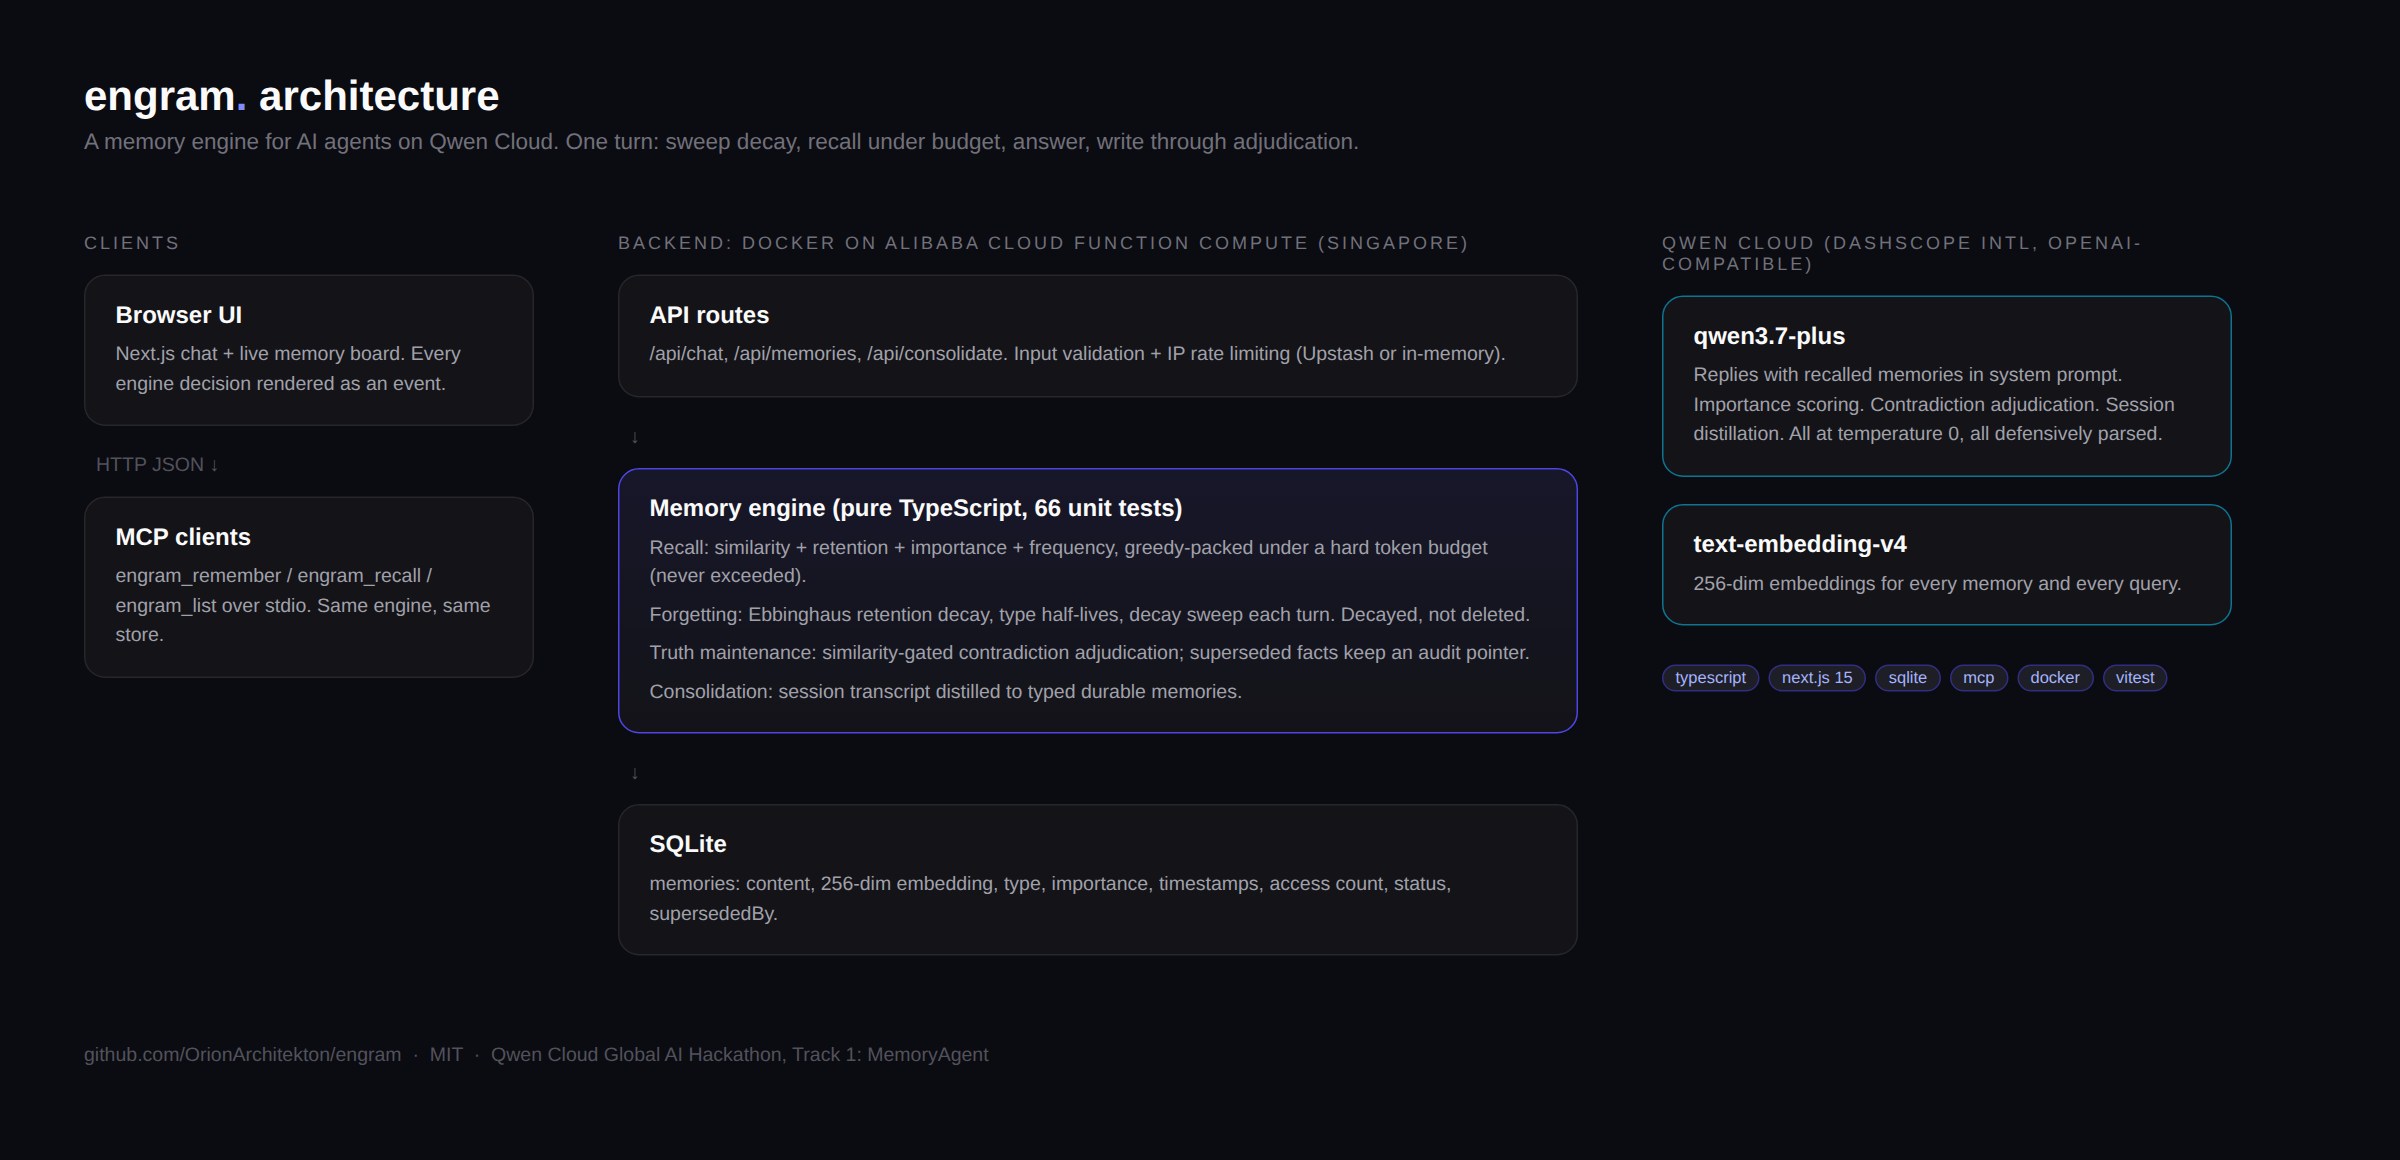
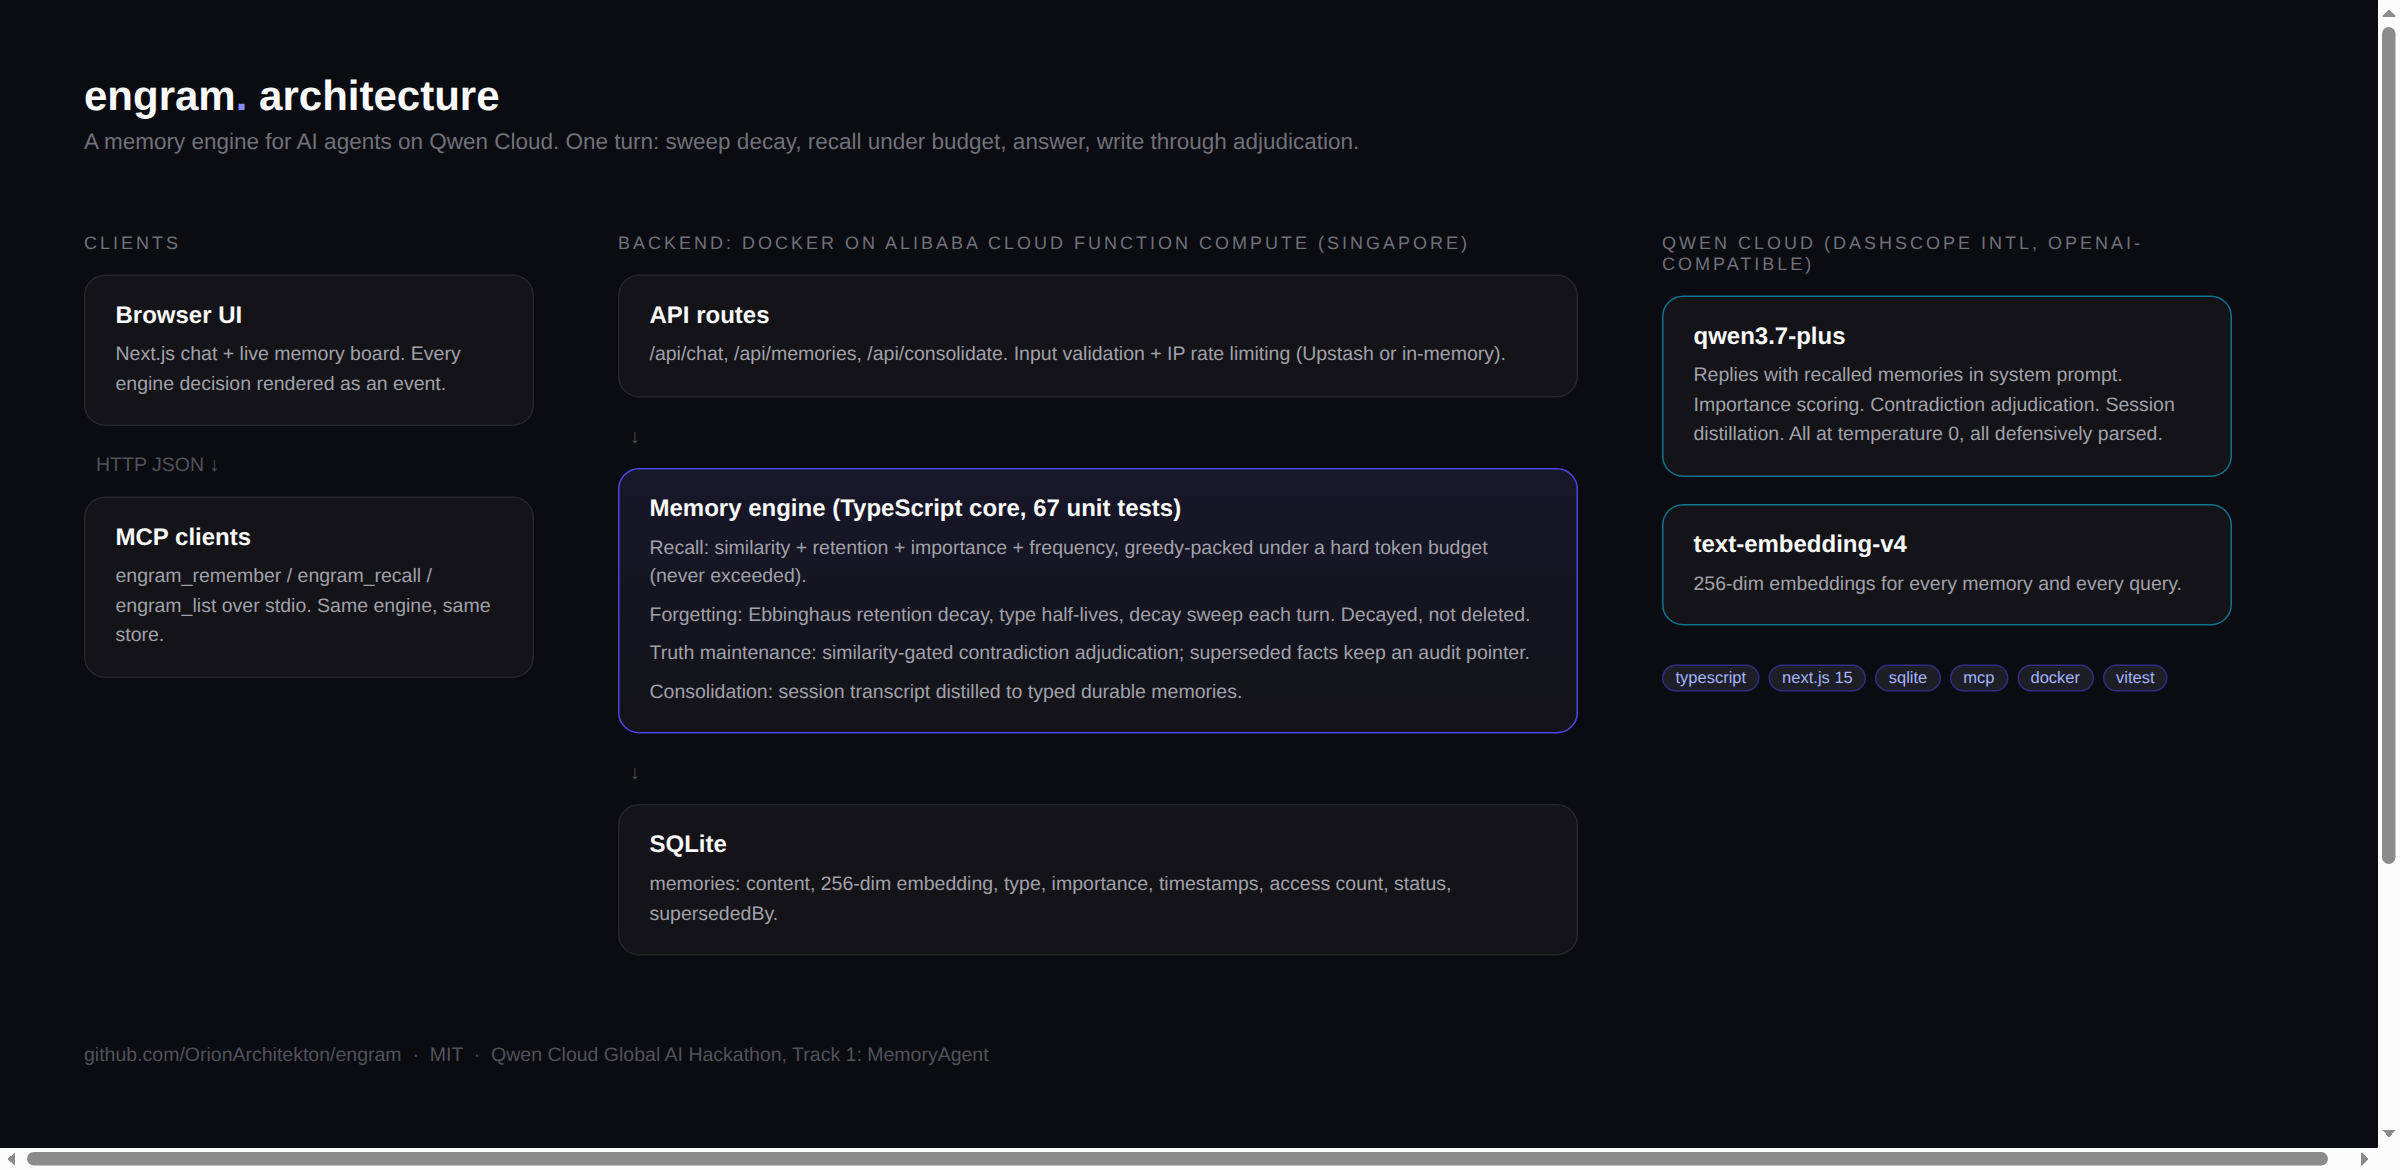
fix: adversarial review findings
Fix adjudication prompt old/new argument order; gate consolidation drafts
on the importance threshold; lower conflict similarity gate to 0.45
(Denver/San Diego pair verified live: recalled -> superseded -> stored);
add cross-session recall unit test (67 tests); real MCP stdio round-trip
proof artifact; scope wording in README/spec to match implementation.

diff --git a/scripts/mcp-roundtrip.ts b/scripts/mcp-roundtrip.ts
@@ -1,0 +1,45 @@
+// Real MCP round-trip proof: spawns the actual stdio server (mcp/server.ts),
+// calls engram_remember then engram_recall then engram_list through the MCP
+// protocol, and prints the transcript. Output is saved under docs/submission/.
+import { Client } from "@modelcontextprotocol/sdk/client/index.js";
+import { StdioClientTransport } from "@modelcontextprotocol/sdk/client/stdio.js";
+
+async function main() {
+  const transport = new StdioClientTransport({
+    command: "npx",
+    args: ["tsx", "mcp/server.ts"],
+    cwd: process.cwd(),
+    env: { ...process.env } as Record<string, string>,
+  });
+  const client = new Client({ name: "engram-roundtrip-proof", version: "0.1.0" });
+  await client.connect(transport);
+
+  const tools = await client.listTools();
+  console.log("tools:", tools.tools.map((t) => t.name).join(", "));
+
+  const remembered = await client.callTool({
+    name: "engram_remember",
+    arguments: {
+      content: "The operator prefers pnpm over npm for all JavaScript projects.",
+      type: "preference",
+      importance: 0.8,
+    },
+  });
+  console.log("engram_remember ->", JSON.stringify(remembered.content));
+
+  const recalled = await client.callTool({
+    name: "engram_recall",
+    arguments: { query: "Which package manager should I use?" },
+  });
+  console.log("engram_recall ->", JSON.stringify(recalled.content));
+
+  const listed = await client.callTool({ name: "engram_list", arguments: {} });
+  console.log("engram_list ->", JSON.stringify(listed.content));
+
+  await client.close();
+}
+
+main().catch((err) => {
+  console.error("ROUNDTRIP FAILED:", err);
+  process.exit(1);
+});

diff --git a/lib/agent.ts b/lib/agent.ts
@@ -39,8 +39,11 @@ export const RECALL_BUDGET = Number(process.env.ENGRAM_RECALL_BUDGET || 800);
 /** Below this LLM-scored importance, a user statement is observed but not stored. */
 export const STORE_THRESHOLD = 0.3;
 
-const adjudicator = async (a: string, b: string) => {
-  const raw = await chat([{ role: "user", content: buildAdjudicationPrompt(a, b) }]);
+// Adjudicator receives (newContent, oldContent); the prompt takes (old, new).
+const adjudicator = async (newContent: string, oldContent: string) => {
+  const raw = await chat([
+    { role: "user", content: buildAdjudicationPrompt(oldContent, newContent) },
+  ]);
   return parseAdjudication(raw);
 };
 
@@ -176,6 +179,17 @@ export async function consolidateSession(
   const drafts = parseDistillation(raw);
   const events: MemoryEvent[] = [];
   for (const draft of drafts) {
+    if (draft.importance < STORE_THRESHOLD) {
+      events.push({
+        kind: "skipped",
+        memoryId: "",
+        content: draft.content,
+        type: draft.type,
+        score: draft.importance,
+        detail: `importance ${draft.importance.toFixed(2)} below ${STORE_THRESHOLD}`,
+      });
+      continue;
+    }
     events.push(
       ...(await writeMemory(store, draft.content, draft.type, draft.importance, sessionId, now)),
     );

diff --git a/lib/engine/contradiction.test.ts b/lib/engine/contradiction.test.ts
@@ -35,8 +35,8 @@ function fakeAdjudicator(conflict: boolean) {
 }
 
 describe("CONFLICT_SIMILARITY_THRESHOLD", () => {
-  it("is 0.55", () => {
-    expect(CONFLICT_SIMILARITY_THRESHOLD).toBe(0.55);
+  it("is 0.45", () => {
+    expect(CONFLICT_SIMILARITY_THRESHOLD).toBe(0.45);
   });
 });
 
@@ -71,8 +71,8 @@ describe("findSuperseded (contradiction adjudication)", () => {
   });
 
   it("never sends a below-threshold memory to the adjudicator", async () => {
-    // cosine([1,0,0], [1,2,0]) ~= 0.447 < 0.55
-    const unrelated = mem({ content: "user owns a cat", embedding: [1, 2, 0] });
+    // cosine([1,0,0], [1,3,0]) ~= 0.316 < 0.45
+    const unrelated = mem({ content: "user owns a cat", embedding: [1, 3, 0] });
     const near = mem({ content: "user lives in San Diego", embedding: [1, 0, 0] });
     const { adjudicate, calls } = fakeAdjudicator(true);
     const result = await findSuperseded(
@@ -105,10 +105,10 @@ describe("findSuperseded (contradiction adjudication)", () => {
   });
 
   it("honors a custom threshold", async () => {
-    const far = mem({ content: "loosely related", embedding: [1, 2, 0] }); // ~0.447
+    const far = mem({ content: "loosely related", embedding: [1, 3, 0] }); // ~0.316
     const { adjudicate } = fakeAdjudicator(false);
     const result = await findSuperseded("new fact", [1, 0, 0], [far], adjudicate, {
-      threshold: 0.4,
+      threshold: 0.3,
     });
     expect(result.adjudicated).toBe(1);
   });

diff --git a/lib/engine/retrieval.test.ts b/lib/engine/retrieval.test.ts
@@ -118,6 +118,13 @@ describe("recall (budget-bounded)", () => {
     expect(r.selected.map((s) => s.record.id)).toEqual([small.id]);
   });
 
+  it("recalls memories regardless of which session wrote them (cross-session)", () => {
+    const fromA = mem({ sessionId: "session-a", content: "preference from session a" });
+    const fromB = mem({ sessionId: "session-b", content: "fact from session b" });
+    const r = recall([fromA, fromB], [1, 0, 0], { budget: 1000, now: NOW });
+    expect(r.selected.map((s) => s.record.sessionId).sort()).toEqual(["session-a", "session-b"]);
+  });
+
   it("drops memories whose retention is below the forgetting floor", () => {
     const ancient = mem({
       importance: 0.05,

diff --git a/docs/architecture.html b/docs/architecture.html
@@ -34,7 +34,7 @@
       <div class="col-title">Backend: Docker on Alibaba Cloud Function Compute (Singapore)</div>
       <div class="box"><b>API routes</b><span>/api/chat, /api/memories, /api/consolidate. Input validation + IP rate limiting (Upstash or in-memory).</span></div>
       <div class="arrow">&#8595;</div>
-      <div class="box engine"><b>Memory engine (pure TypeScript, 66 unit tests)</b>
+      <div class="box engine"><b>Memory engine (TypeScript core, 67 unit tests)</b>
         <span>Recall: similarity + retention + importance + frequency, greedy-packed under a hard token budget (never exceeded).</span>
         <span>Forgetting: Ebbinghaus retention decay, type half-lives, decay sweep each turn. Decayed, not deleted.</span>
         <span>Truth maintenance: similarity-gated contradiction adjudication; superseded facts keep an audit pointer.</span>

diff --git a/lib/engine/contradiction.ts b/lib/engine/contradiction.ts
@@ -14,7 +14,7 @@ export type Adjudicator = (
  * Only candidates at/above this cosine similarity are adjudicated; anything
  * less similar cannot be a contradiction worth an LLM call.
  */
-export const CONFLICT_SIMILARITY_THRESHOLD = 0.55;
+export const CONFLICT_SIMILARITY_THRESHOLD = 0.45;
 
 export interface FindSupersededOptions {
   /** similarity cutoff for adjudication; defaults to CONFLICT_SIMILARITY_THRESHOLD */

diff --git a/README.md b/README.md
@@ -16,8 +16,9 @@ with three parts most memory demos skip:
 ## What it does
 
 - **Typed memories.** `preference`, `fact`, `skill`, `episode`, each with its own decay
-  half-life. An LLM scores the importance of every candidate memory at write time; low
-  scorers are observed but never stored (the UI shows the decision either way).
+  half-life. An LLM scores the importance of every chat message and consolidation
+  draft at write time; low scorers are observed but never stored (the UI shows the
+  decision either way). MCP writes accept caller-set importance.
 - **Budget-bounded recall.** Every turn, active memories are ranked by a blend of
   embedding similarity (`text-embedding-v4`, 256 dims), retention, importance, and
   access frequency, then greedily packed under a hard token budget (default 800). The
@@ -27,8 +28,8 @@ with three parts most memory demos skip:
   access; important memories decay slower, and every recall refreshes retention.
   Below the floor a memory is marked `decayed`: excluded from recall, never deleted
   (the audit trail survives).
-- **Contradiction adjudication.** On every write, the nearest active memories above a
-  similarity threshold are adjudicated by `qwen3.7-plus` (strict JSON, temperature 0,
+- **Contradiction adjudication.** On every chat and consolidation write, the nearest
+  active memories above a similarity threshold are adjudicated by `qwen3.7-plus` (strict JSON, temperature 0,
   fail-safe parsing: a parser failure never supersedes anything). Conflicting old
   memories are marked `superseded` with a pointer to their replacement.
 - **Session consolidation.** On demand, a session transcript is distilled into typed
@@ -79,10 +80,10 @@ One turn through `/api/chat`:
 pnpm install
 cp .env.example .env.local   # add your Qwen Cloud API key
 pnpm dev                     # http://localhost:3000
-pnpm test                    # 66 unit tests, no network
+pnpm test                    # 67 unit tests, no network
 ```
 
-Docker (what the Alibaba Cloud deployment runs):
+Docker (the image the Alibaba Cloud deployment runs; see Deployment):
 
 ```bash
 docker build --platform linux/amd64 -t engram .
@@ -91,24 +92,31 @@ docker run -p 3000:3000 -e QWEN_CLOUD_API_KEY=... engram
 
 ## Engineering notes
 
-- The engine (`lib/engine/`) is pure TypeScript with injected clock, embedder, and
-  adjudicator: all 66 tests run in milliseconds with zero network. The budget packer
+- The engine core (scoring, budget packing, contradiction logic, distillation
+  parsing) is pure TypeScript with injected clock, embedder, and adjudicator; the
+  store is a thin better-sqlite3 wrapper tested against `:memory:`. All 67 tests run
+  in milliseconds with zero network. The budget packer
   has a property-style test over randomized pools; the adjudicator tests pin both the
   supersede and the no-supersede paths, plus the threshold gate that keeps unrelated
   memories from ever reaching the LLM.
 - All model calls run at temperature 0. Every LLM output that feeds a decision
   (importance, adjudication, distillation) goes through a defensive parser that
   degrades safely on garbage: default importance, never-supersede, empty draft list.
-- The API key lives server-side only. Public endpoints are rate limited (Upstash when
-  configured, in-memory fallback otherwise).
+- The API key lives server-side only. The model-calling endpoints (`/api/chat`,
+  `/api/consolidate`) are rate limited (Upstash when configured, in-memory fallback
+  otherwise); `/api/memories` is a cheap read-only snapshot with no model calls.
 
 ## Demo mode
 
-`/?demo=1` renders a frozen replay so the UI can be captured without racing live
-calls. Every reply, score, and event in it is a real output captured on 2026-07-06
-from live `qwen3.7-plus` + `text-embedding-v4` calls through this app's own
-`/api/chat` route (only the session labels were renamed for display). The demo video
-uses live calls except where noted.
+`/?demo=1` (plus `&scene=fresh|stored|recall|decay`) renders frozen replays so the
+UI can be captured without racing live calls. Every reply, score, and event is a
+real output captured on 2026-07-06 from live `qwen3.7-plus` + `text-embedding-v4`
+calls through this app's own engine paths. Display normalizations are disclosed:
+session labels were renamed, scene timestamps/ids were normalized for display, and
+the decay scene comes from `scripts/capture-decay.ts`, which seeds a BACKDATED
+low-importance memory so the real decay mechanism fires in demo time (retention
+decay needs weeks on the wall clock). The demo video is captured entirely from
+these frozen replay scenes.
 
 ## Honesty and provenance
 

diff --git a/specs/engram-spec.md b/specs/engram-spec.md
@@ -25,9 +25,9 @@ information conflicts with old).
 ### S2. Budget-bounded recall
 - Given more stored memories than fit in the recall budget,
 - When the agent assembles context for a turn,
-- Then it selects the highest-value subset whose combined token estimate is <= the hard
-  budget (never over), value = blend of semantic similarity, recency, importance, and
-  access frequency.
+- Then it greedily selects the highest-scoring memories that fit, so the combined
+  token estimate is <= the hard budget (never over); score = blend of semantic
+  similarity, recency, importance, and access frequency.
 
 ### S3. Timely forgetting
 - Given a memory that is old, low-importance, and unaccessed,
@@ -52,8 +52,8 @@ information conflicts with old).
 ### S6. Live memory board
 - Given any chat turn,
 - When the engine stores, recalls, decays, or supersedes memories,
-- Then the UI shows each event with the memory content, type, and score — the engine's
-  reasoning is observable, not a black box.
+- Then the UI shows each event with the memory content and kind, plus type and score
+  where applicable — the engine's reasoning is observable, not a black box.
 
 ### S7. MCP surface
 - Given an external MCP client,
@@ -76,9 +76,11 @@ information conflicts with old).
 No other seams; UI is exercised by the demo capture.
 
 ## Acceptance criteria
-- [ ] S1-S4 each covered by unit tests at seam 1 (deterministic, no network).
-- [ ] S2: packer provably never exceeds budget (property-style test over random sets).
-- [ ] S4: adjudicator fake proves both supersede and no-supersede paths.
-- [ ] Live e2e proof: real Qwen call through the deployed chat route.
-- [ ] Memory board shows stored/recalled/decayed/superseded events live.
-- [ ] MCP server round-trip: remember then recall returns the same record.
+- [x] S1-S4 each covered by unit tests at seam 1 (deterministic, no network).
+- [x] S2: packer provably never exceeds budget (property-style test over random sets).
+- [x] S4: adjudicator fake proves both supersede and no-supersede paths.
+- [ ] Live e2e proof: real Qwen call through the deployed chat route. (Proven locally
+      against live Qwen Cloud; deployed-route rerun pending Alibaba Cloud deploy.)
+- [x] Memory board shows stored/recalled/decayed/superseded events live.
+- [x] MCP server round-trip: remember then recall returns the same record
+      (real stdio protocol run: docs/submission/mcp-roundtrip.txt).

diff --git a/demo/DEMO_SCRIPT.md b/demo/DEMO_SCRIPT.md
@@ -25,7 +25,7 @@ All scenes are server-rendered frozen replays of REAL captured engine output
 
 ### SHOT skipped
 - target: dashboard
-- narration: Small talk scores low and is deliberately not stored. Every engine decision is visible, including the ones it declines to make.
+- narration: Questions and small talk score low and are deliberately not stored. Every engine decision is visible, including the ones it declines to make.
 - action: goto url="/?demo=1&scene=recall"
 - action: wait ms=600
 - action: highlight selector="[data-kind=skipped]"
@@ -46,6 +46,6 @@ All scenes are server-rendered frozen replays of REAL captured engine output
 
 ### SHOT outro
 - target: dashboard
-- narration: Sixty six unit tests, an MCP server so any agent can plug in, and the backend on Alibaba Cloud. Engram: memory that behaves like memory should.
+- narration: Sixty seven unit tests, an MCP server so any agent can plug in, and the backend on Alibaba Cloud. Engram: memory that behaves like memory should.
 - action: goto url="/?demo=1"
 - action: wait ms=900

diff --git a/docs/submission/DEVPOST.md b/docs/submission/DEVPOST.md
@@ -50,7 +50,7 @@ Engram is a memory engine, not a chat log. For every turn:
 ## How we built it
 
 TypeScript end to end. The engine core (scoring, budget packer, decay, contradiction,
-consolidation parsing) is pure and dependency-injected: 66 unit tests run in
+consolidation parsing) is pure and dependency-injected: 67 unit tests run in
 milliseconds with zero network. Qwen Cloud powers everything model-side through the
 OpenAI-compatible endpoint: qwen3.7-plus for replies, importance scoring,
 contradiction adjudication, and session distillation; text-embedding-v4 for